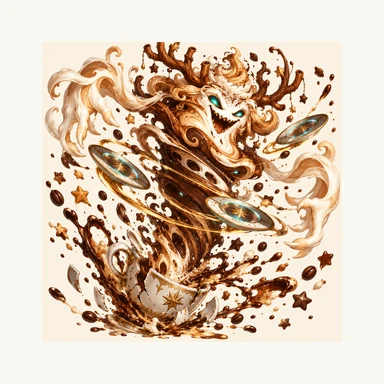
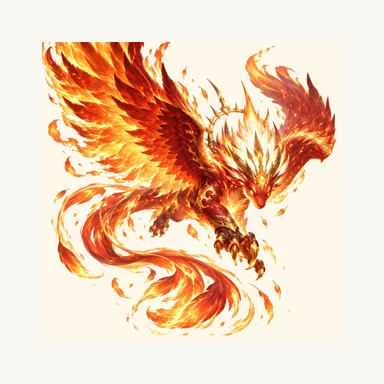
Restore unique Cindervalkyr artwork

diff --git a/app/creature-art.tsx b/app/creature-art.tsx
@@ -2,10 +2,11 @@ import {Sparkles} from 'lucide-react';
 import type {Creature} from '@/lib/creatures';
 export function CreatureArt({creature}:{creature:Creature}){
  const assetRoot=creature.stage===4?'/transparent-siplings':'/siplings';
+ const assetId=creature.id==='cindervalkyr'?'cindervalkyr.fix':creature.id;
  return <div data-rarity={creature.rarity} data-stage={creature.stage} className={'creature-art creature-stage-'+creature.stage}>
   {/* Each entry owns a complete image; no atlas windows or runtime cropping. */}
   {/* Legacy path shape: /siplings/${creature.id}.webp */}
-  <img className="creature-sprite" src={`${assetRoot}/${creature.id}.webp?v=transparent-fourth-tier-20260925`} alt={creature.name} width={384} height={384} loading="lazy" decoding="async"/>
+  <img className="creature-sprite" src={`${assetRoot}/${assetId}.webp?v=transparent-fourth-tier-20260925`} alt={creature.name} width={384} height={384} loading="lazy" decoding="async"/>
  </div>
 }
 export function MysteryArt(){return <div className="mystery-art" role="img" aria-label="Undiscovered Sipling"><Sparkles size={20}/><span>?</span><small>A little mystery</small></div>}
